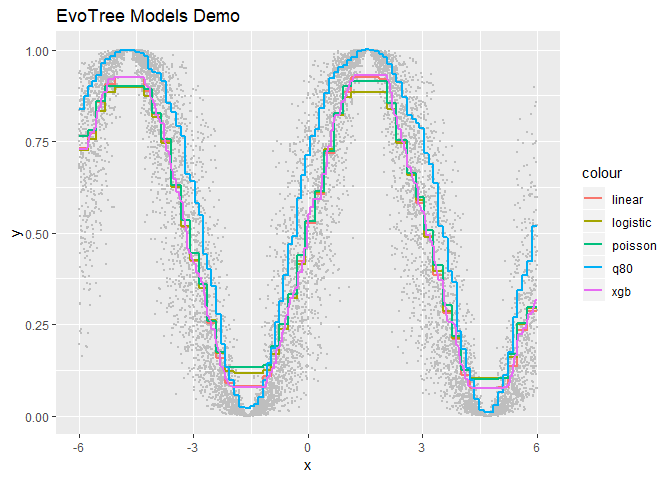
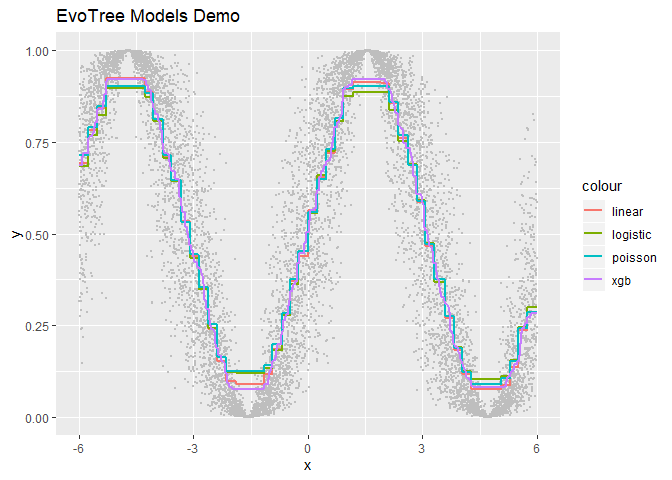
move to version 0.3.1

diff --git a/README.md b/README.md
@@ -1,17 +1,21 @@
 EvoTrees
 ================
 
-> R package wrapping EvoTrees.jl, a pure Julia tree boosting library.
+> R package wrapping
+> [EvoTrees.jl](https://github.com/Evovest/EvoTrees.jl), a pure Julia
+> tree boosting library.
 
 # Installation
 
 EvoTrees.jl needs first to be installed and available from main Julia
-environment. Then, install EvoTree R package with:
+environment. It’s available on the official Julia registry. Can be
+installed from REPL: `] add EvoTrees`. Then, install EvoTrees R package:
 `devtools::install_github("Evovest/EvoTrees")`.
 
 # Parameters
 
-  - loss: {“linear”, “logistic”, “poisson”, “quantile”}
+  - loss: {“linear”, “logistic”, “poisson”, “L1”, “quantile”, “softmax”,
+    “gaussian”}
   - alpha: float, optional, \[0, 1\], set the quantile and L1 level,
     default=0.5
   - nrounds: 10L
@@ -23,13 +27,15 @@ environment. Then, install EvoTree R package with:
   - rowsample: float \[0,1\] default=1.0
   - colsample: float \[0,1\] default=1.0
   - nbins: integer \[2,250\] default=250
-  - metric: {“mse”, “rmse”, “logloss”, “quantile”}, default=“none”
+  - metric: {“mse”, “rmse”, “mae”, “logloss”, “mlogloss”, “poisson”,
+    “quantile”, “gaussian”}, default=“none”
 
 # Getting started
 
+## Regression
+
 ``` r
-# set data
-set.seed(123)
+set.seed(1234)
 x <- runif(10000, -6, 6)
 y <- sin(x) * 0.5 + 0.5
 y <- log(y/(1-y)) + rnorm(length(y))
@@ -52,18 +58,6 @@ params <- list(loss = "poisson", nrounds = 200, eta = 0.05, lambda = 0.5, gamma 
 model <- evo_train(data_train = data_train, target_train = target_train, params = params)
 pred_poisson <- predict(model = model, data = data_train)
 
-# quantile regression - q80
-params <- list(loss = "quantile", alpha=0.8, nrounds = 200, eta = 0.05, lambda = 0.0, gamma = 0.0, max_depth = 6, min_weight = 1, rowsample = 0.5, colsample = 1, nbins=100)
-model <- evo_train(data_train = data_train, target_train = target_train, params = params)
-pred_q80 <- predict(model = model, data = data_train)
-table(pred_q80 < target_train) / length(target_train)
-```
-
-    ## 
-    ##  FALSE   TRUE 
-    ## 0.8035 0.1965
-
-``` r
 # xgboost reference
 params <- list(max_depth = 4, eta = 0.05, subsample = 0.5, colsample_bytree = 1.0, min_child_weight = 1, lambda = 1, alpha = 0, gamma = 1.0, tree_method = "exact", objective = "reg:linear", eval_metric = "rmse")
 xgb_train <- xgb.DMatrix(data = data_train, label = target_train)
@@ -73,9 +67,10 @@ pred_xgb <- predict(model, xgb_train)
 
 ![](README_files/figure-gfm/unnamed-chunk-2-1.png)<!-- -->
 
+## Quantile
+
 ``` r
-# set data
-set.seed(123)
+set.seed(1234)
 x <- runif(10000, 0, 6)
 y <- sin(x) * 0.5 + 0.5
 y <- log(y/(1-y)) + rnorm(length(y))
@@ -84,36 +79,30 @@ data_train <- matrix(x)
 target_train <- y
 
 # quantile regression - q50
-params <- list(loss = "quantile", alpha=0.5, nrounds = 200, eta = 0.05, nbins=100, lambda = 1.0, gamma = 0.0, max_depth = 4, min_weight = 1, rowsample = 0.5, colsample = 1)
+params <- list(loss = "quantile", alpha=0.5, nrounds = 200, eta = 0.05, nbins=100, lambda = 0.2, gamma = 0.0, max_depth = 4, min_weight = 1, rowsample = 0.5, colsample = 1)
 model <- evo_train(data_train = data_train, target_train = target_train, params = params)
 pred_q50 <- predict(model = model, data = data_train)
 
 # quantile regression - q20
-params <- list(loss = "quantile", alpha=0.2, nrounds = 200, eta = 0.05, nbins=100, lambda = 1.0, gamma = 0.0, max_depth = 4, min_weight = 1, rowsample = 0.5, colsample = 1)
+params <- list(loss = "quantile", alpha=0.2, nrounds = 200, eta = 0.05, nbins=100, lambda = 0.2, gamma = 0.0, max_depth = 4, min_weight = 1, rowsample = 0.5, colsample = 1)
 model <- evo_train(data_train = data_train, target_train = target_train, params = params)
 pred_q20 <- predict(model = model, data = data_train)
 
 # quantile regression - q80
-params <- list(loss = "quantile", alpha=0.8, nrounds = 200, eta = 0.05, nbins=100, lambda = 1.0, gamma = 0.0, max_depth = 4, min_weight = 1, rowsample = 0.5, colsample = 1)
+params <- list(loss = "quantile", alpha=0.8, nrounds = 200, eta = 0.05, nbins=100, lambda = 0.2, gamma = 0.0, max_depth = 4, min_weight = 1, rowsample = 0.5, colsample = 1)
 model <- evo_train(data_train = data_train, target_train = target_train, params = params)
 pred_q80 <- predict(model = model, data = data_train)
 
 # lightgbm
-params <- list(objective = "quantile", alpha=0.2, eta = 0.05, max_bin=100, l1=0, l2=0.5, min_split_gain = 0.0, max_depth = 4, min_weight = 1, rowsample = 0.5, colsample = 1)
+params <- list(objective = "quantile", alpha=0.2, eta = 0.05, max_bin=100, l1=0, l2=0.1, min_split_gain = 0.0, max_depth = 4, min_weight = 1, rowsample = 0.5, colsample = 1)
 dtrain <- lgb.Dataset(data = data_train, label = target_train, free_raw_data = FALSE)
 model <- lightgbm::lgb.train(params = params, data = dtrain, nrounds = 100)
 pred_q20_lgb <- predict(model, data_train)
 
-params <- list(objective = "quantile", alpha=0.8, eta = 0.05, max_bin=100, l1=0, l2=0.5, min_split_gain = 0.0, max_depth = 4, min_weight = 1, rowsample = 0.5, colsample = 1)
+params <- list(objective = "quantile", alpha=0.8, eta = 0.05, max_bin=100, l1=0, l2=0.1, min_split_gain = 0.0, max_depth = 4, min_weight = 1, rowsample = 0.5, colsample = 1)
 dtrain <- lgb.Dataset(data = data_train, label = target_train, free_raw_data = FALSE)
 model <- lightgbm::lgb.train(params = params, data = dtrain, nrounds = 100)
 pred_q80_lgb <- predict(model, data_train)
-
-# table(target_train < pred_q50) / length(target_train)
-# table(target_train < pred_q20) / length(target_train)
-# table(target_train < pred_q80) / length(target_train)
-# table(target_train < pred_q20_lgb) / length(target_train)
-# table(target_train < pred_q80_lgb) / length(target_train)
 ```
 
-![](README_files/figure-gfm/unnamed-chunk-4-1.png)<!-- -->
+![](README_files/figure-gfm/unnamed-chunk-6-1.png)<!-- -->
